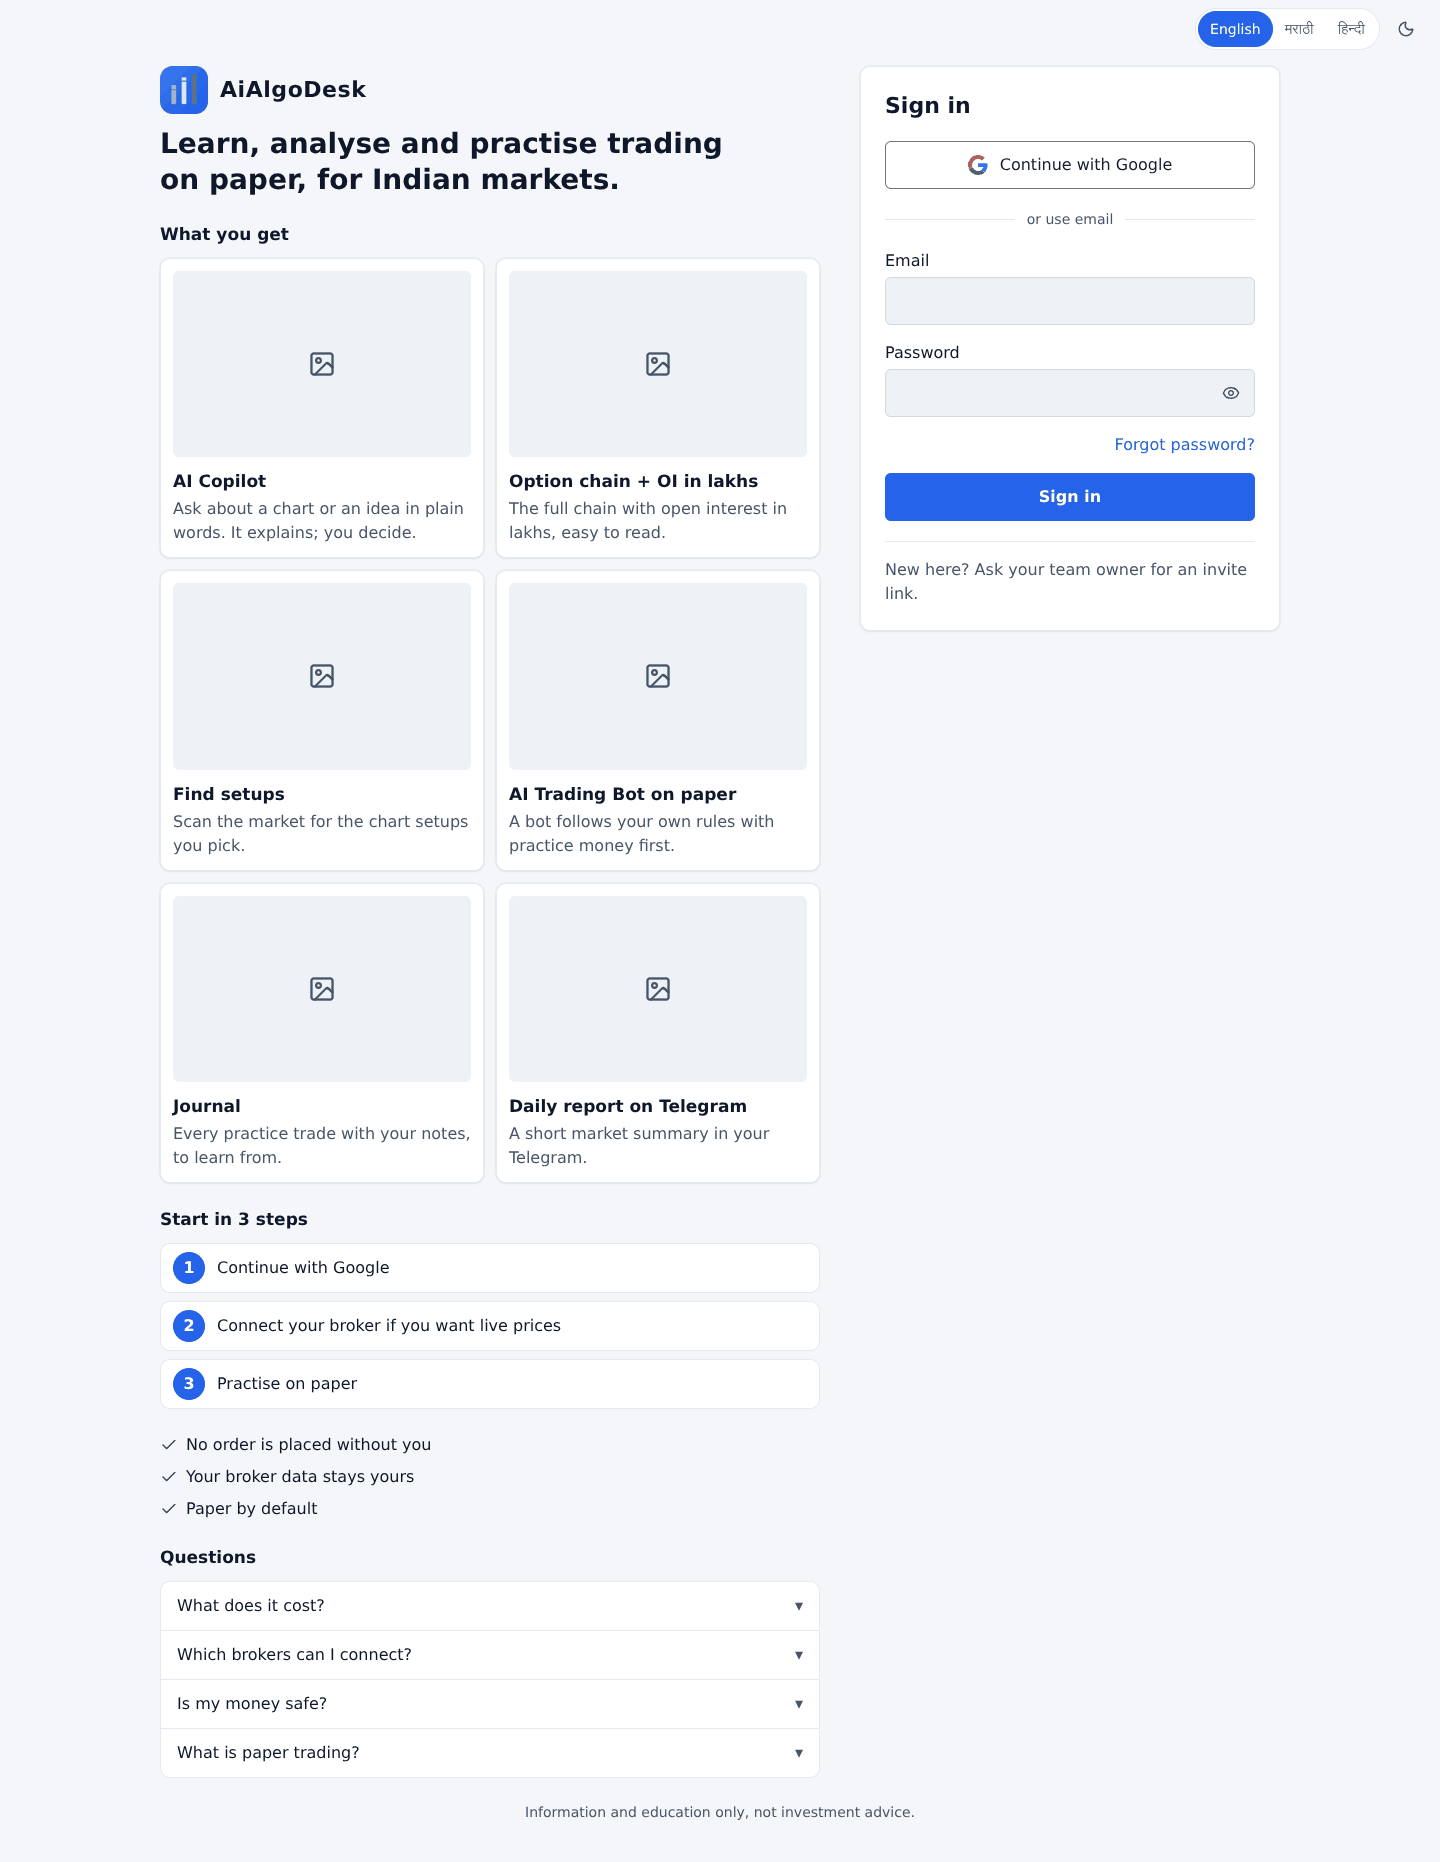
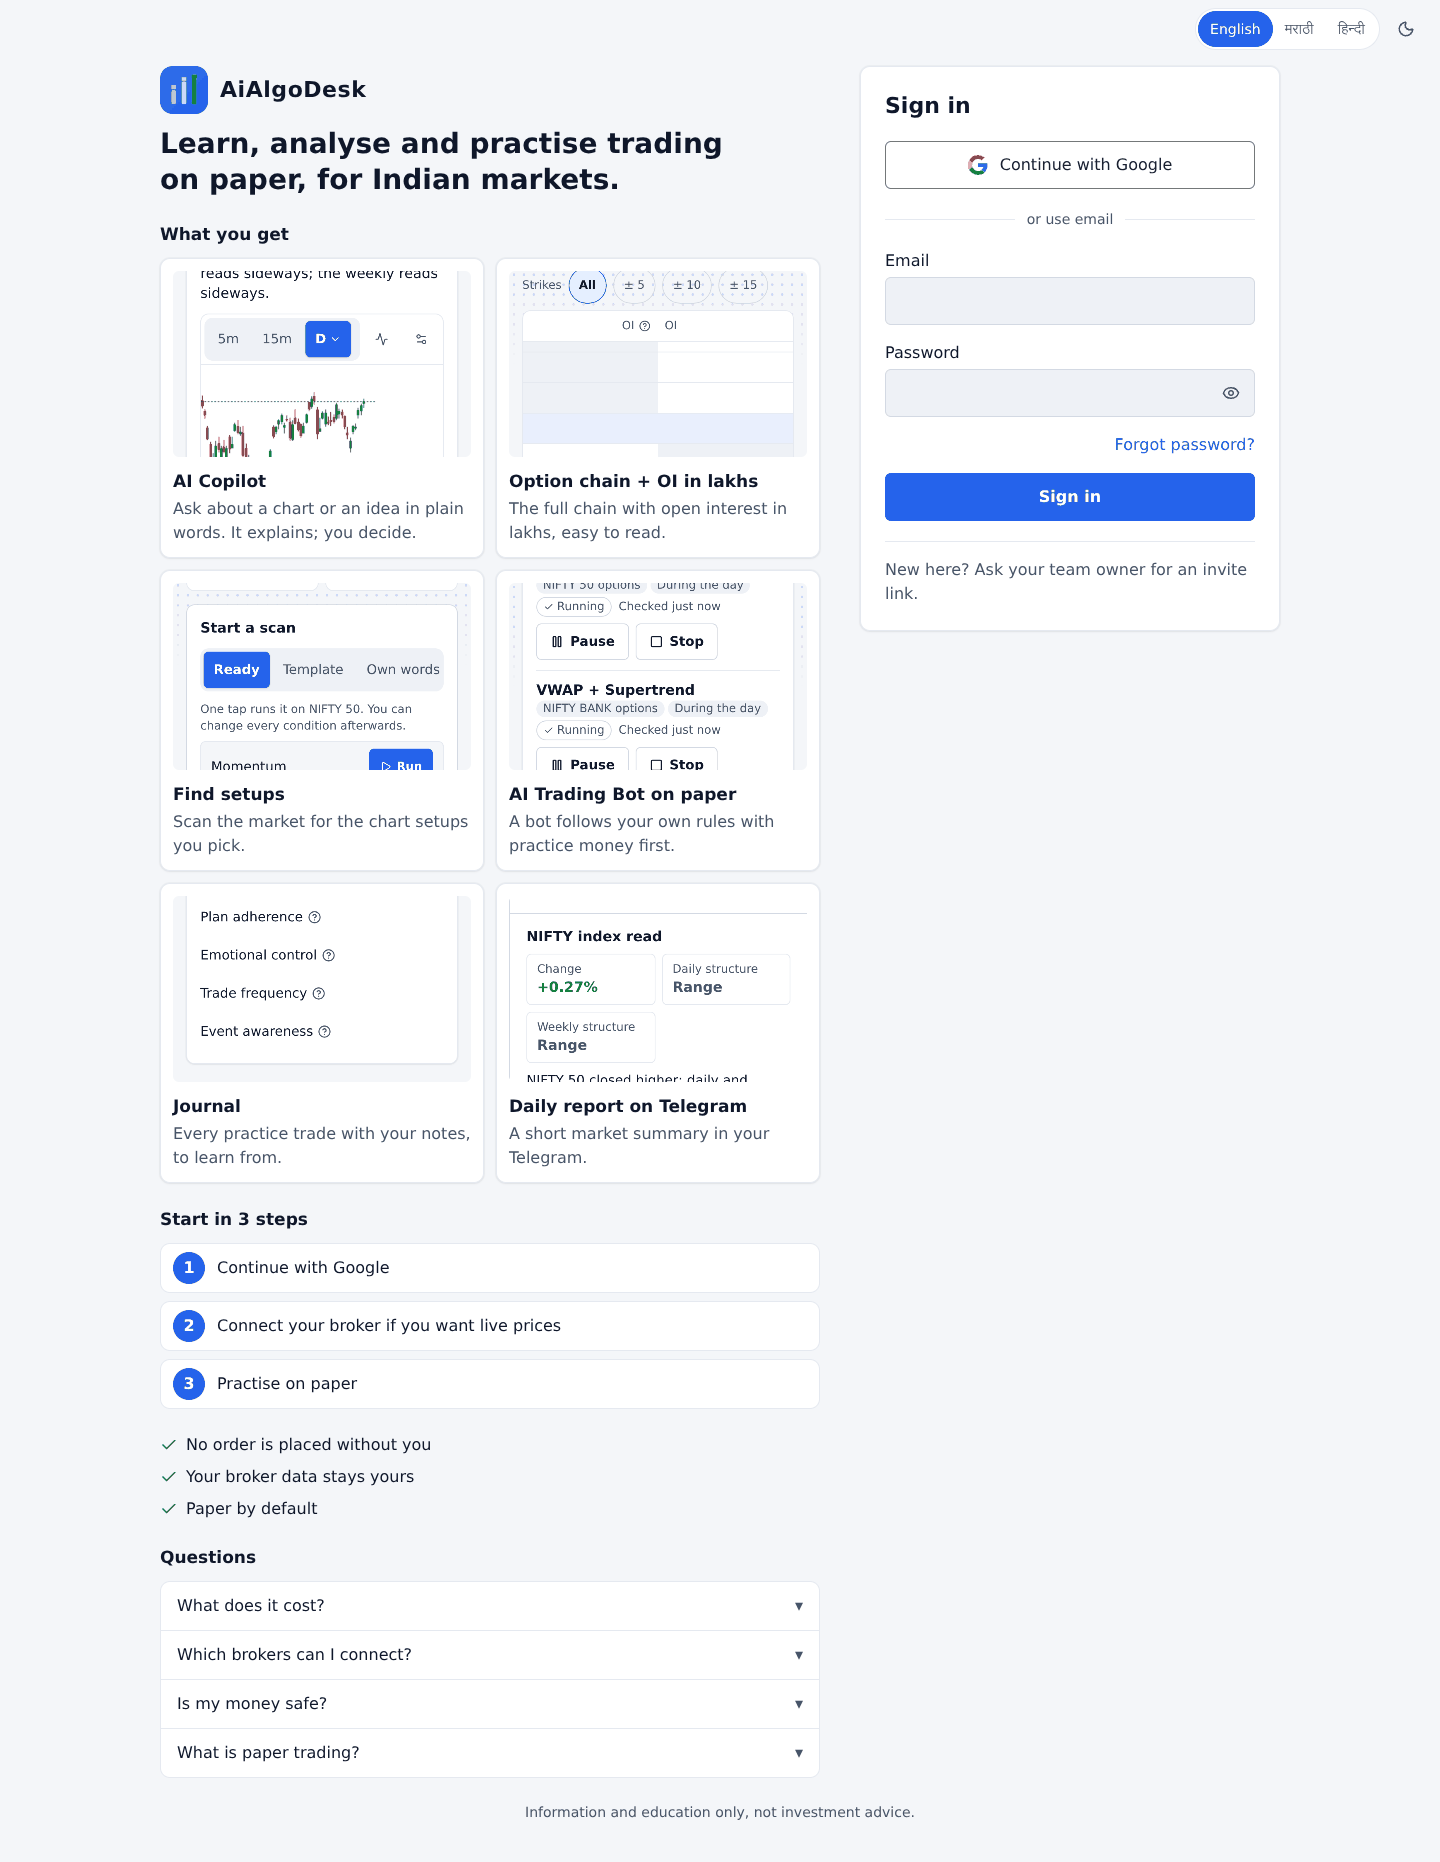
M95 front door: sign-in baselines with the real card images (each lazy image loaded before the shot); after screenshots
Claude-Session: https://claude.ai/code/session_01DartbPxmHrAyA5TTsS4Pys

diff --git a/frontend/e2e/ops-alerts-v2.e2e.ts b/frontend/e2e/ops-alerts-v2.e2e.ts
@@ -78,6 +78,10 @@ for (const size of SIZES) {
         await expect(page.locator("[data-screen='sign-in']")).toBeVisible();
         await expect(page.locator("[data-sign-in-footer] [data-status-link]")).toHaveAttribute("href", "/status");
         await noSidewaysScroll(page);
+        // M95: the front door's benefit images are lazy - load every one (or its placeholder) before the full-page shot.
+        for (const img of await page.locator("img[data-front-image]").all()) await img.scrollIntoViewIfNeeded();
+        await page.waitForFunction(() => [...document.querySelectorAll("img[data-front-image]")].every((i) => (i as HTMLImageElement).complete));
+        await page.evaluate(() => window.scrollTo(0, 0));
         await expect(page).toHaveScreenshot(`sign-in-status-v2-${size.name}-${theme}.png`, { ...SHOT, fullPage: true });
       });
     }
